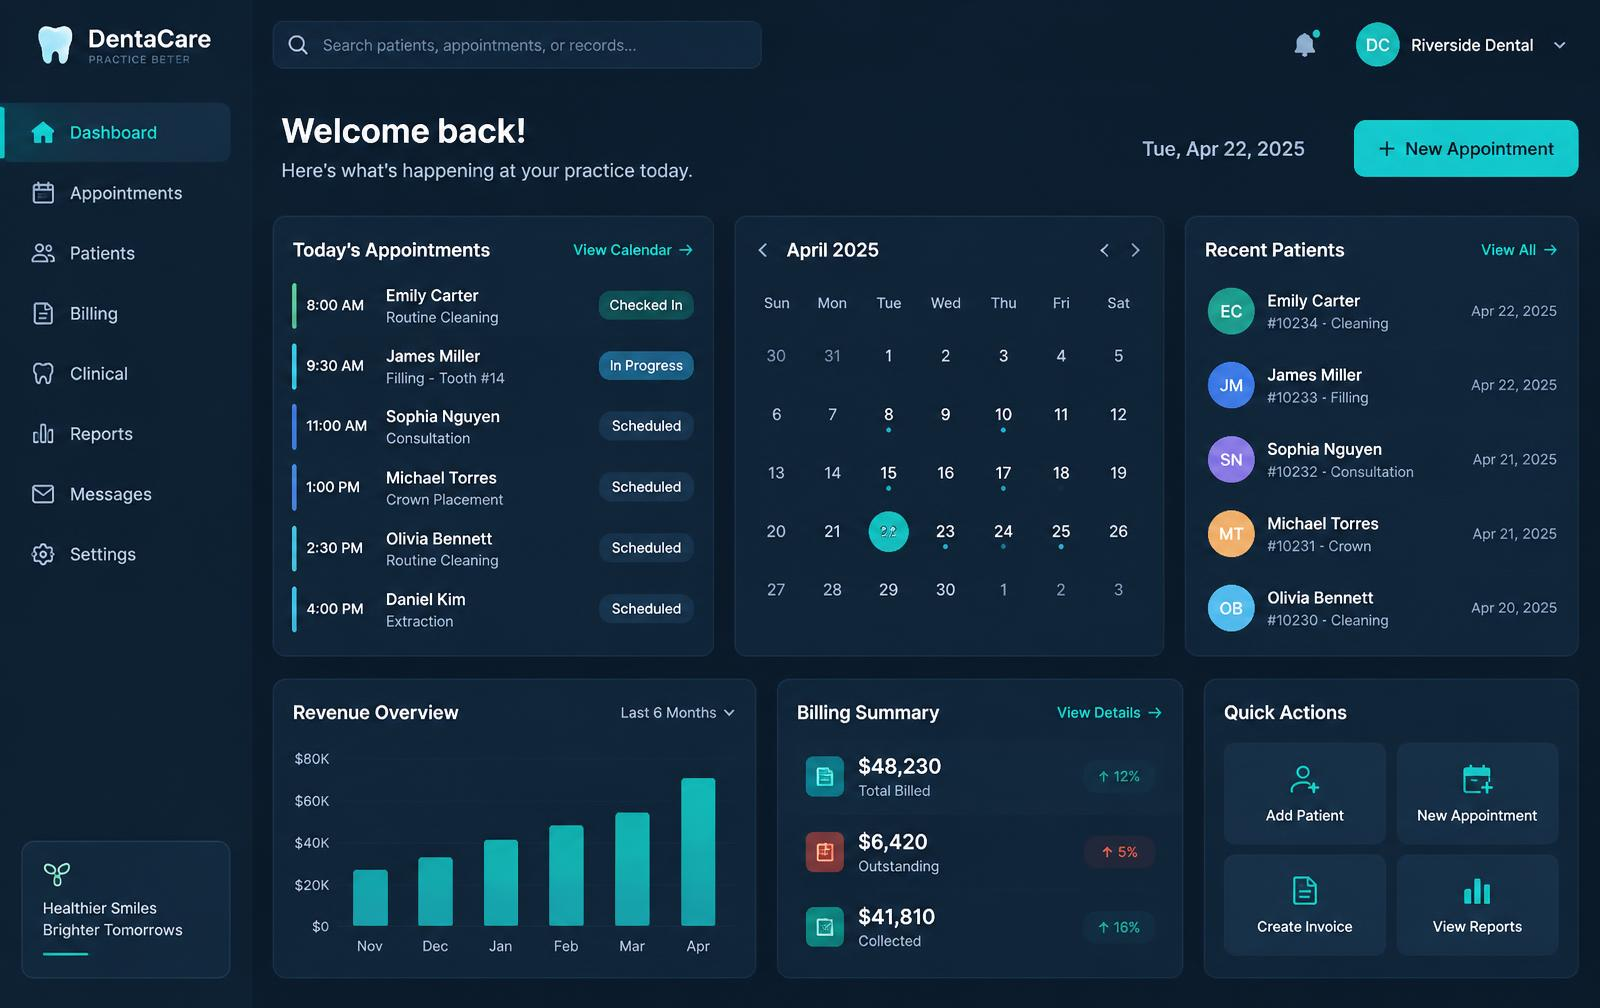
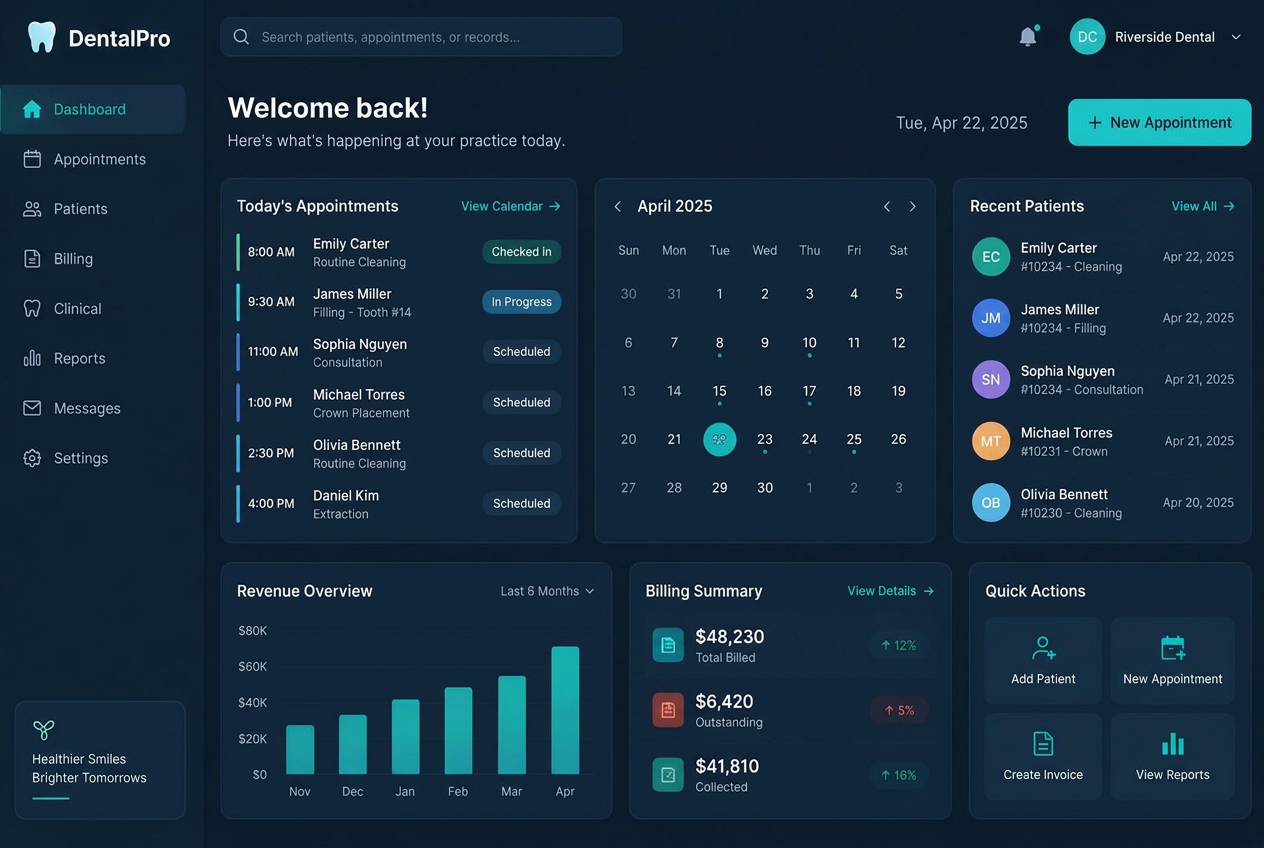
Changes

diff --git a/roadmap.md b/roadmap.md
@@ -1,0 +1,4 @@
+# Targeted UniqManage refinements
+- [ ] Correct DentalPro illustration branding and retain fictional demonstration data and concept labels.
+- [ ] Improve mobile dashboard readability and reduce hero-to-Portfolio whitespace without changing identity or product copy.
+- [ ] Check 360px, 390px, 430px and desktop layouts, hamburger navigation and absence of horizontal scrolling.
